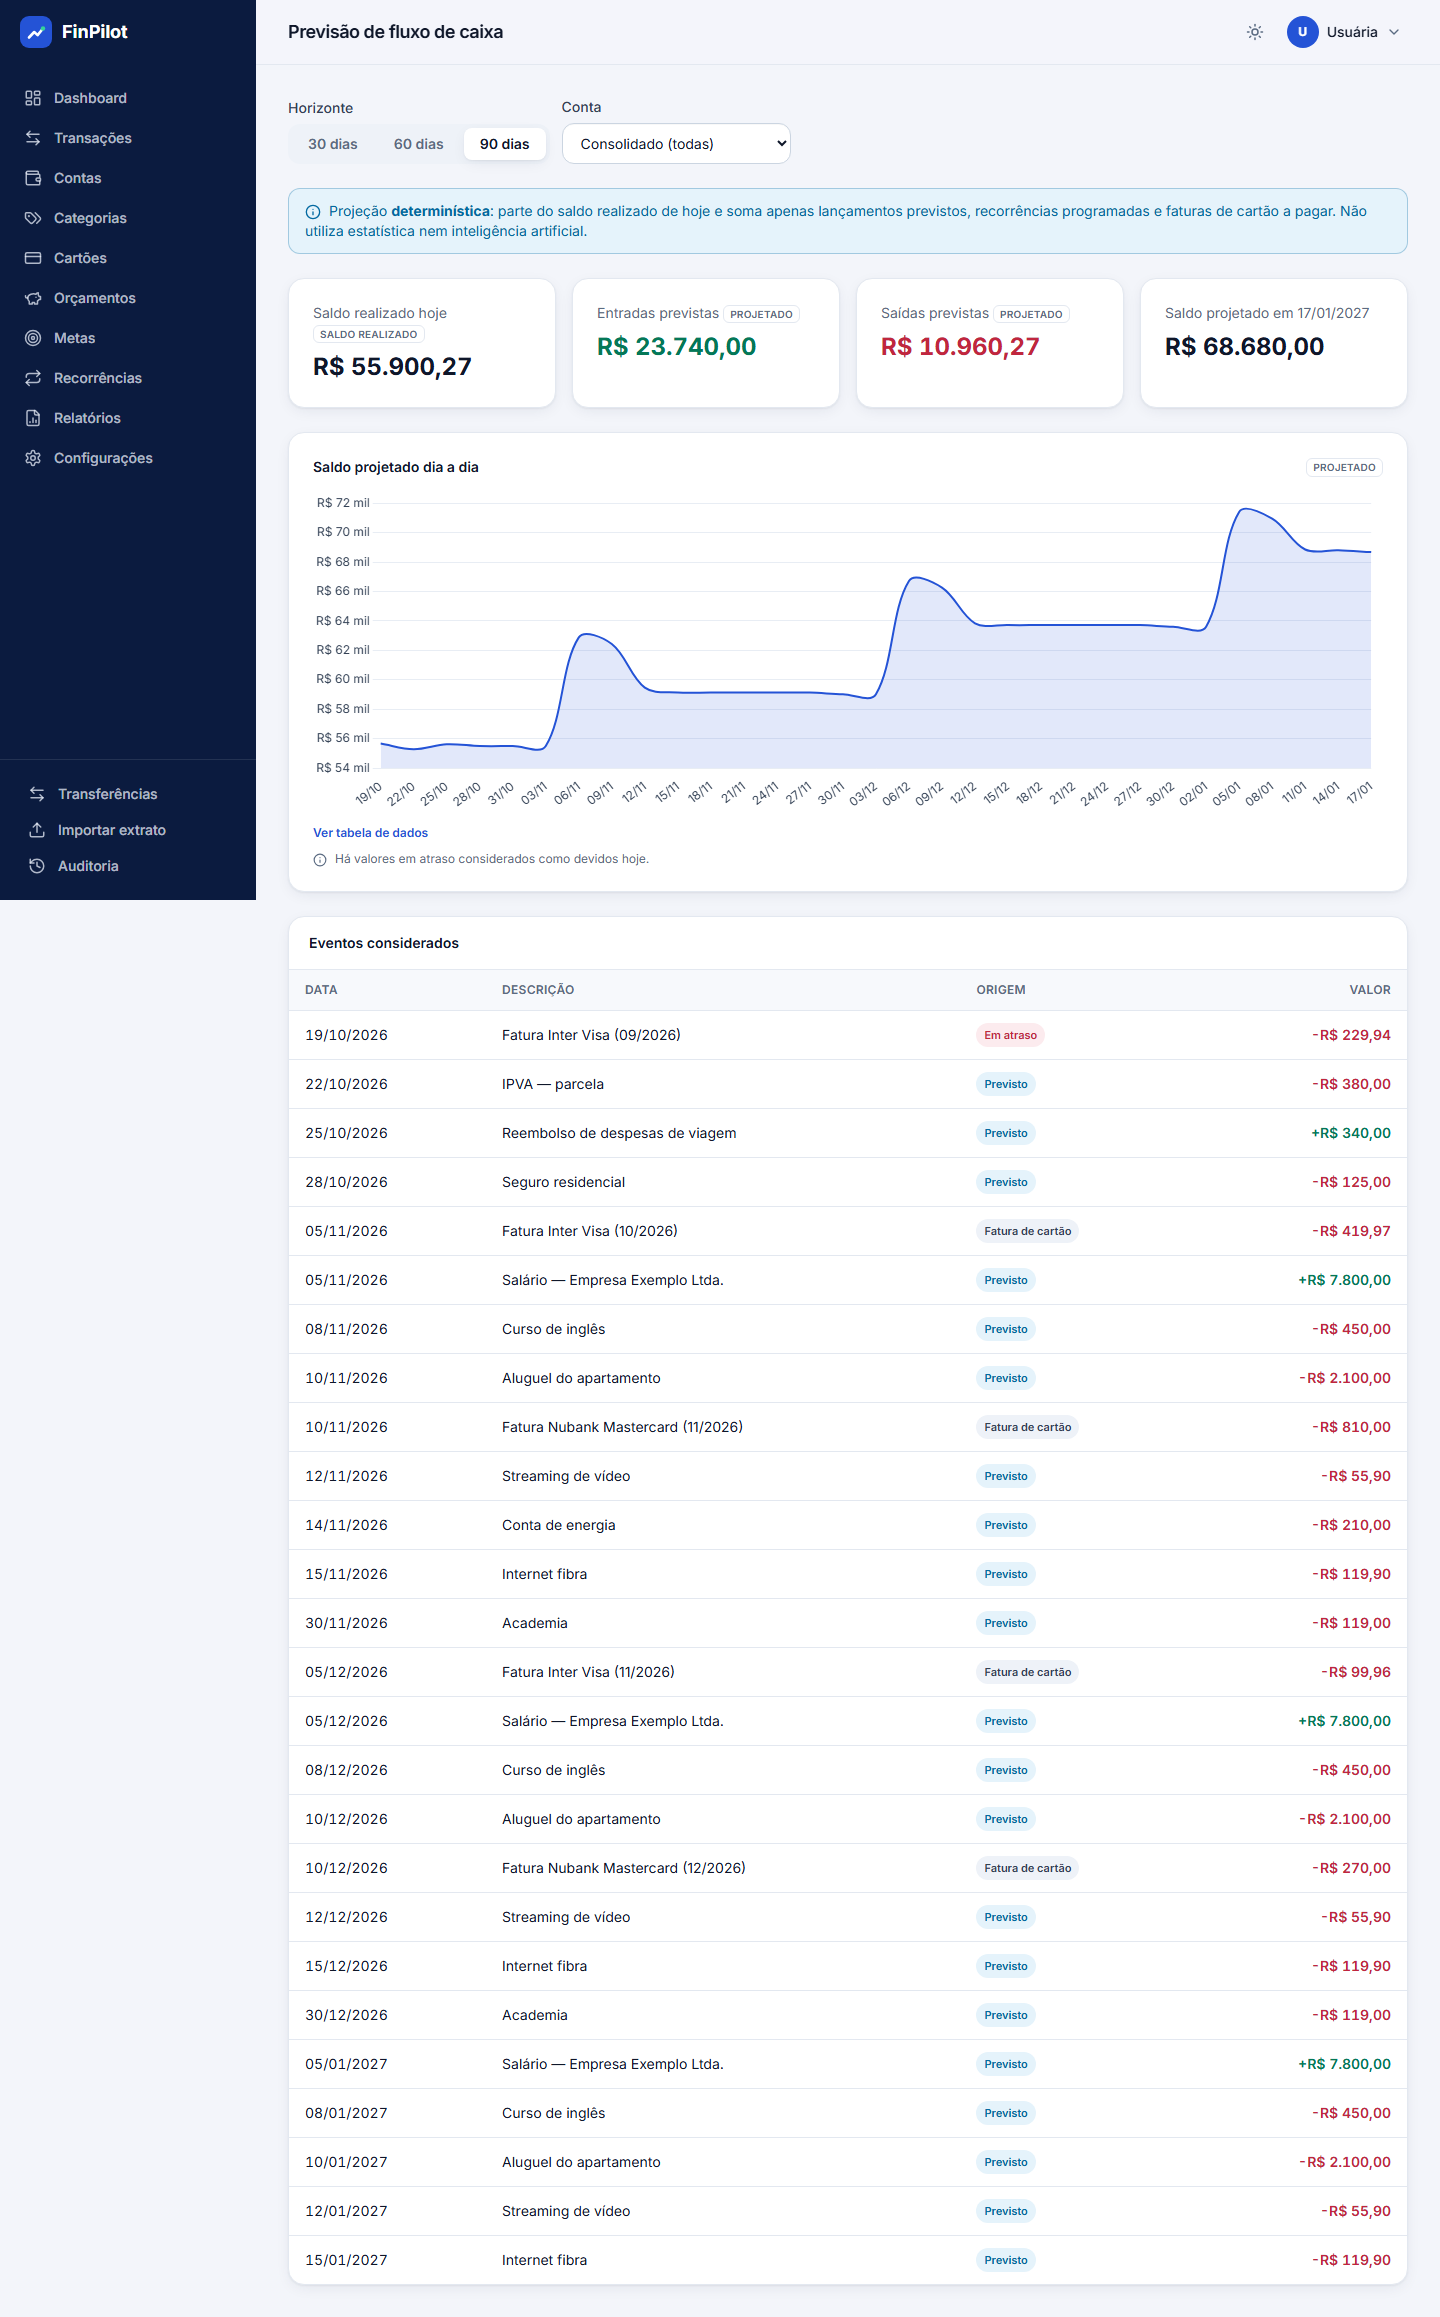
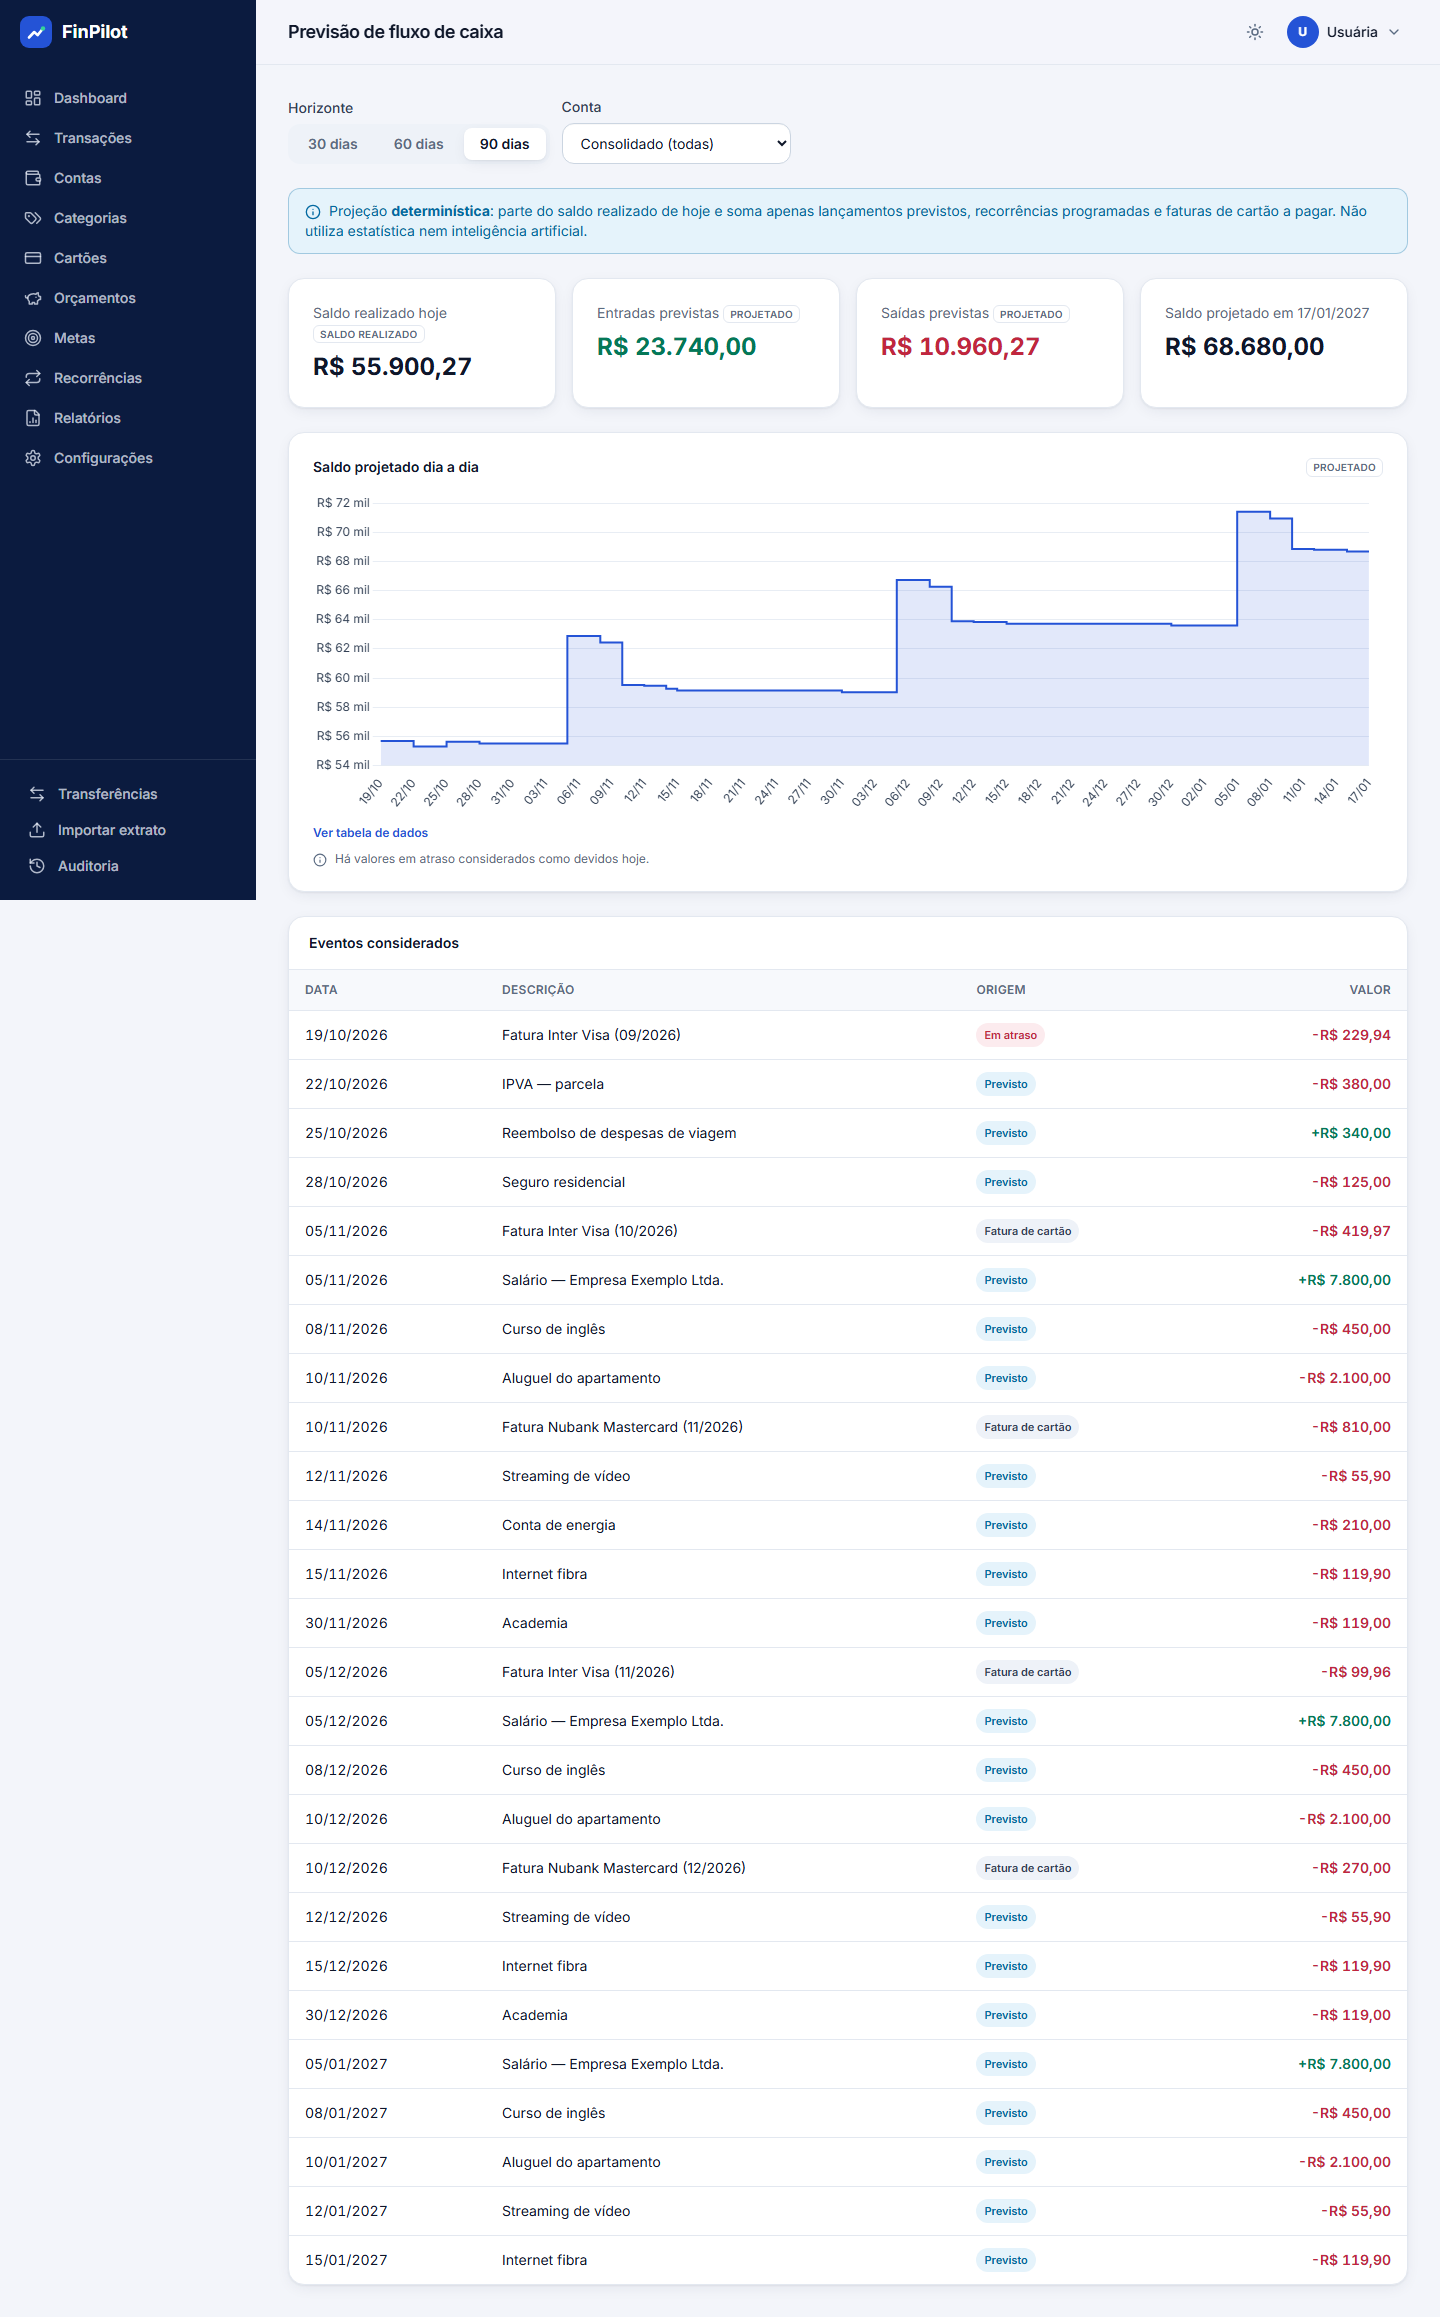
Previsão de caixa em degraus com pontos diários

diff --git a/app/static/js/app.js b/app/static/js/app.js
@@ -219,7 +219,7 @@
     const datasets = spec.datasets.map((d) => {
       const color = Array.isArray(d.color) ? d.color.map((c) => resolveColor(c, p)) : resolveColor(d.color, p);
       const base = { label: d.label, data: d.data, borderColor: color, backgroundColor: color, borderWidth: 2 };
-      if (spec.type === "line") Object.assign(base, { backgroundColor: (Array.isArray(color) ? color[0] : color) + "22", fill: d.fill ?? true, tension: 0.35, pointRadius: d.pointRadius ?? 2, borderDash: d.dashed ? [6, 4] : [] });
+      if (spec.type === "line") Object.assign(base, { backgroundColor: (Array.isArray(color) ? color[0] : color) + "22", fill: d.fill ?? true, tension: d.stepped ? 0 : 0.35, stepped: d.stepped ? "before" : false, pointRadius: d.pointRadius ?? 2, borderDash: d.dashed ? [6, 4] : [] });
       if (spec.type === "bar") Object.assign(base, { borderRadius: 6, borderWidth: 0, maxBarThickness: 28, stack: d.stack });
       if (spec.type === "doughnut") Object.assign(base, { borderColor: p.surface, borderWidth: 2, hoverOffset: 6 });
       return base;

diff --git a/app/web/dashboard.py b/app/web/dashboard.py
@@ -73,10 +73,8 @@ def forecast(request: Request, session: VerifiedSession, svc: Svc) -> Response:
     if account_id and account_id not in {a.id for a in accounts}:
         account_id = None
     result = svc.forecast.build(user_id, svc.clock.today(), days, account_id)
-    step = 1 if days <= 30 else 2 if days <= 60 else 3
-    points = result.series[::step]
-    if result.series and points[-1] != result.series[-1]:
-        points.append(result.series[-1])
+    # Todos os dias: em linha em degraus, amostrar esconderia eventos.
+    points = result.series
     chart = {
         "type": "line",
         "legend": False,
@@ -87,6 +85,7 @@ def forecast(request: Request, session: VerifiedSession, svc: Svc) -> Response:
                 "data": [b for _, b in points],
                 "color": "primary",
                 "pointRadius": 0,
+                "stepped": True,
             }
         ],
     }
